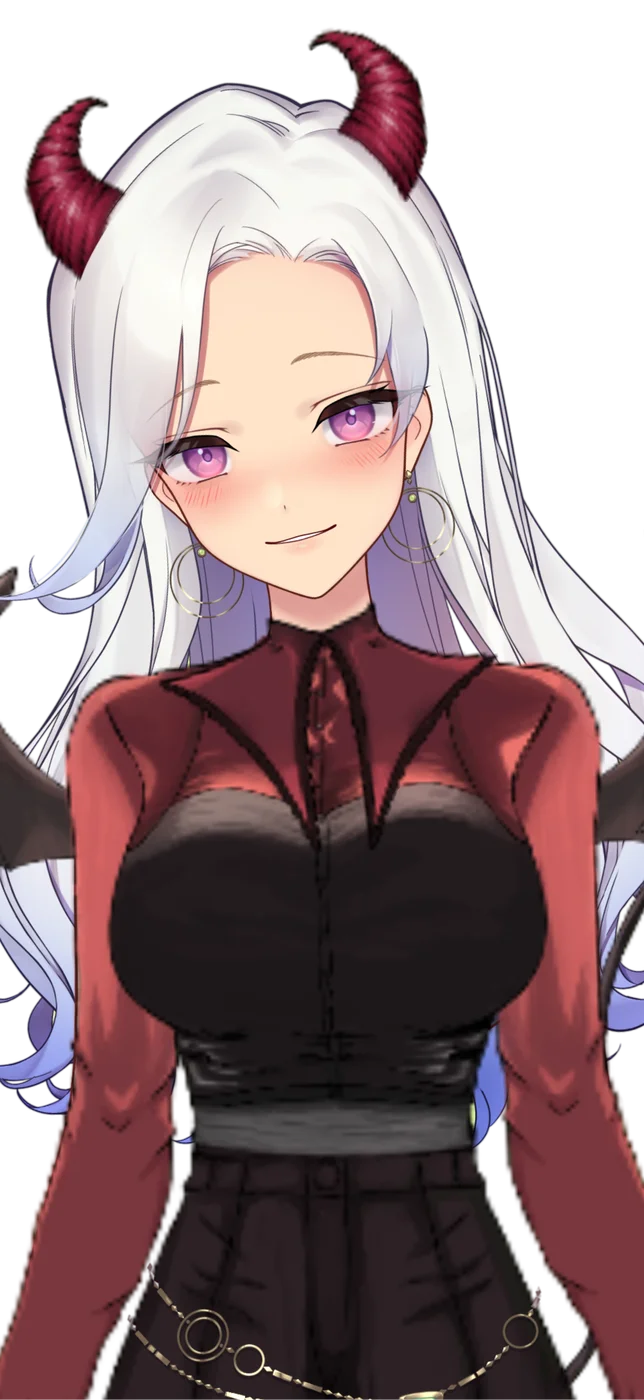
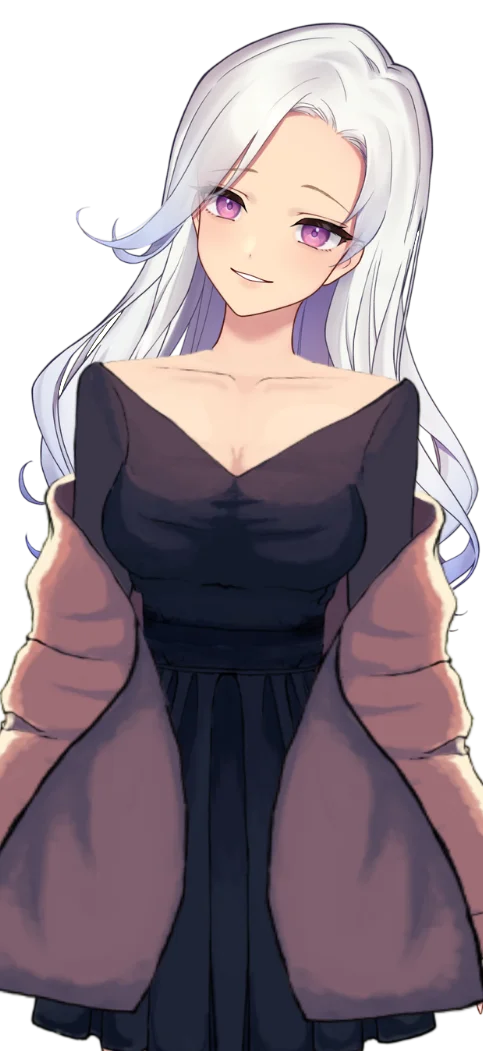
deploy: CastShowcase 自動デプロイ BackStage-unei/bs-cast-showcase@ae8ffe835e3a402b7036d8c1822888582f543b6b

diff --git a/casts-data.js b/casts-data.js
@@ -111,12 +111,12 @@ window.SHOWCASE = {
       "x_url": "https://x.com/TamakiYouBS",
       "portrait": "",
       "portraits": [
+        "assets/241_KV09.webp",
         "assets/241_KV06.webp",
         "assets/241_KV04.webp",
         "assets/241_KV05.webp",
         "assets/241_KV03.webp",
-        "assets/241_KV07.webp",
-        "assets/241_KV09.webp"
+        "assets/241_KV07.webp"
       ],
       "icon": "assets/241_icon.webp",
       "tags": [
@@ -145,7 +145,7 @@ window.SHOWCASE = {
       "profile_url": "https://back-stage.onelink.me/7z4p?pid=backstage_cast&deep_link_value=https://back-stage.app/casts/241&af_dp=jp.vic-inc.app.back-stage://&af_force_deeplink=true",
       "birth_month": "3月",
       "call_category": "ドリーマー",
-      "accent_color": "#ee636f"
+      "accent_color": "#ee6378"
     },
     {
       "cast_id": 529,
